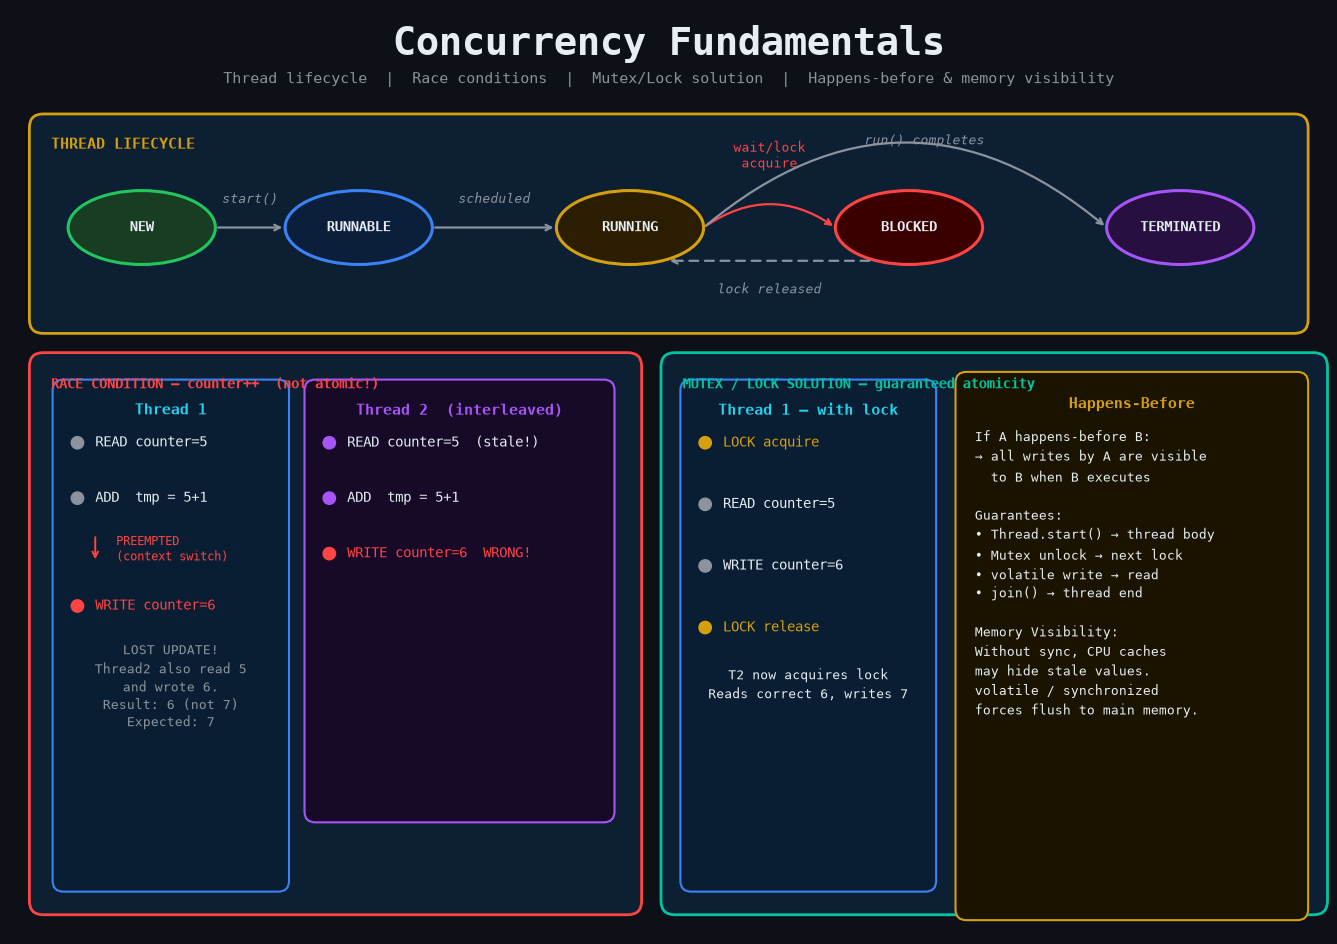
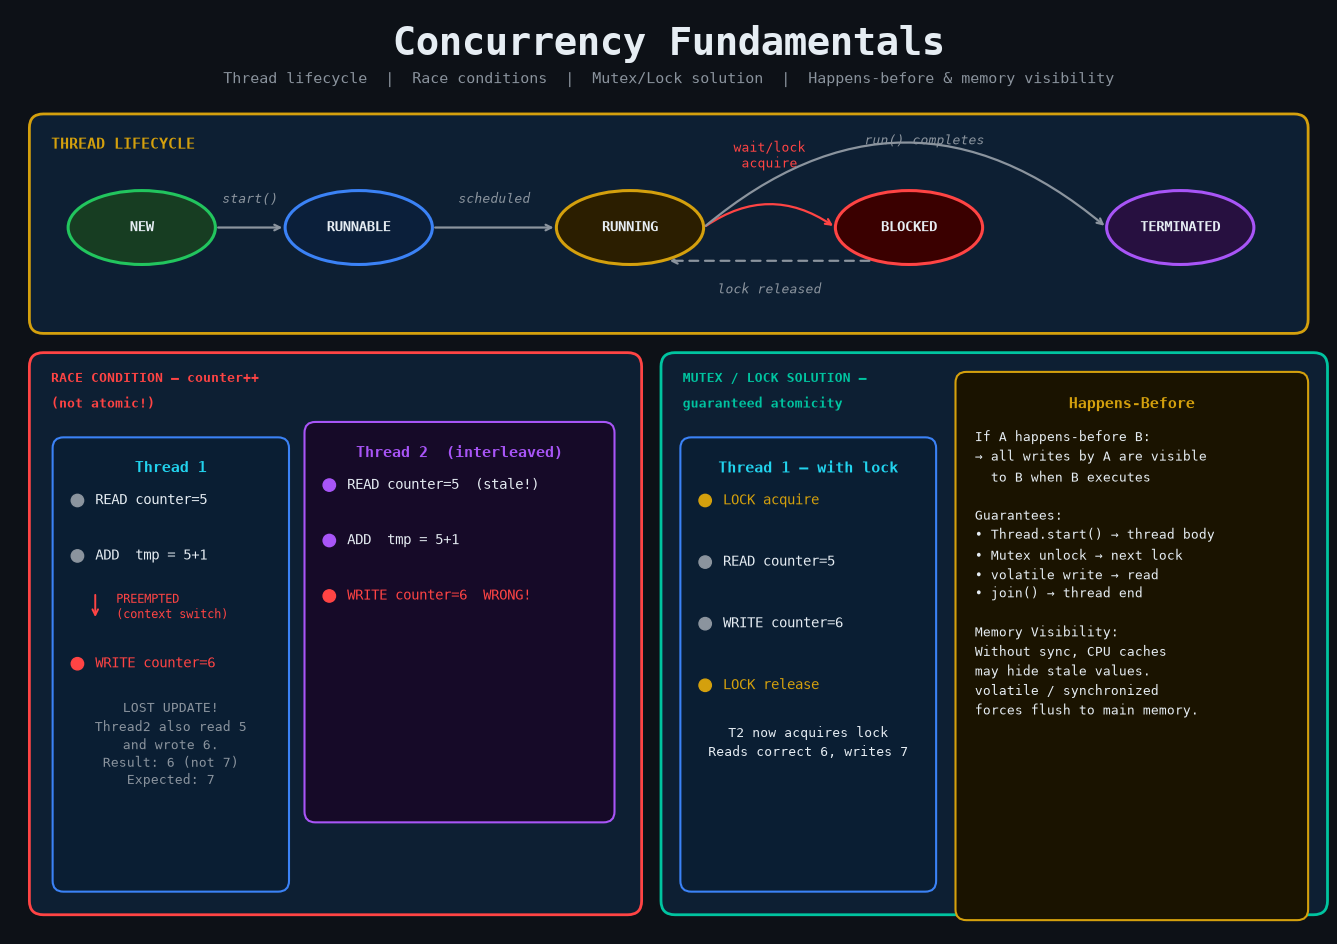
fix(diagrams): fix panel header text overflow in concurrency-fundamentals
Split long single-line headers onto two lines and reduced inner box
heights so headers no longer bleed outside their panel boundaries.

diff --git a/apps/camora/scripts/gen-concurrency-fundamentals.py b/apps/camora/scripts/gen-concurrency-fundamentals.py
@@ -132,12 +132,15 @@ BOT_Y, BOT_H = 0.25, 7.3
 # ── RACE CONDITION  (left half) ──────────────────────────────────────
 RCX, RCW = 0.25, 7.9
 rbox(RCX, BOT_Y, RCW, BOT_H, PANEL, RED, lw=2)
-ax.text(RCX+0.28, BOT_Y+BOT_H-0.32,
-        'RACE CONDITION – counter++  (not atomic!)',
-        fontsize=10, fontfamily=MONO, fontweight='bold', color=RED, va='top', zorder=5)
+ax.text(RCX+0.28, BOT_Y+BOT_H-0.25,
+        'RACE CONDITION – counter++',
+        fontsize=9.5, fontfamily=MONO, fontweight='bold', color=RED, va='top', zorder=5)
+ax.text(RCX+0.28, BOT_Y+BOT_H-0.57,
+        '(not atomic!)',
+        fontsize=9.5, fontfamily=MONO, fontweight='bold', color=RED, va='top', zorder=5)
 
-# Thread 1 inner box
-T1X, T1Y, T1W, T1H = 0.55, 0.55, 3.05, 6.65
+# Inner boxes: top must stay below panel header line 2 (y≈6.70)
+T1X, T1Y, T1W, T1H = 0.55, 0.55, 3.05, 5.90
 rbox(T1X, T1Y, T1W, T1H, INNER_BLUE, BLUE, lw=1.5, radius=0.14)
 ax.text(T1X+T1W/2, T1Y+T1H-0.3, 'Thread 1',
         ha='center', fontsize=11, fontfamily=MONO,
@@ -177,7 +180,7 @@ ax.text(T1X+T1W/2, luy,
         linespacing=1.45, zorder=5)
 
 # Thread 2 inner box — positioned to show interleaving (shifted down & right)
-T2X, T2Y, T2W, T2H = 3.8, 1.45, 4.0, 5.75
+T2X, T2Y, T2W, T2H = 3.8, 1.45, 4.0, 5.20
 rbox(T2X, T2Y, T2W, T2H, INNER_PURPLE, PURPLE, lw=1.5, radius=0.14)
 ax.text(T2X+T2W/2, T2Y+T2H-0.3, 'Thread 2  (interleaved)',
         ha='center', fontsize=10.5, fontfamily=MONO,
@@ -202,12 +205,15 @@ ax.text(T2X+0.55, r3y, 'WRITE counter=6  WRONG!', va='center',
 # ── MUTEX / LOCK SOLUTION  (right half) ─────────────────────────────
 MLX, MLW = 8.4, 8.6
 rbox(MLX, BOT_Y, MLW, BOT_H, PANEL, TEAL, lw=2)
-ax.text(MLX+0.28, BOT_Y+BOT_H-0.32,
-        'MUTEX / LOCK SOLUTION – guaranteed atomicity',
-        fontsize=10, fontfamily=MONO, fontweight='bold', color=TEAL, va='top', zorder=5)
+ax.text(MLX+0.28, BOT_Y+BOT_H-0.25,
+        'MUTEX / LOCK SOLUTION –',
+        fontsize=9.5, fontfamily=MONO, fontweight='bold', color=TEAL, va='top', zorder=5)
+ax.text(MLX+0.28, BOT_Y+BOT_H-0.57,
+        'guaranteed atomicity',
+        fontsize=9.5, fontfamily=MONO, fontweight='bold', color=TEAL, va='top', zorder=5)
 
 # Thread 1 with lock inner box
-MX, MY, MW, MH = 8.65, 0.55, 3.3, 6.65
+MX, MY, MW, MH = 8.65, 0.55, 3.3, 5.90
 rbox(MX, MY, MW, MH, INNER_BLUE, BLUE, lw=1.5, radius=0.14)
 ax.text(MX+MW/2, MY+MH-0.3, 'Thread 1 – with lock',
         ha='center', fontsize=10.5, fontfamily=MONO,
